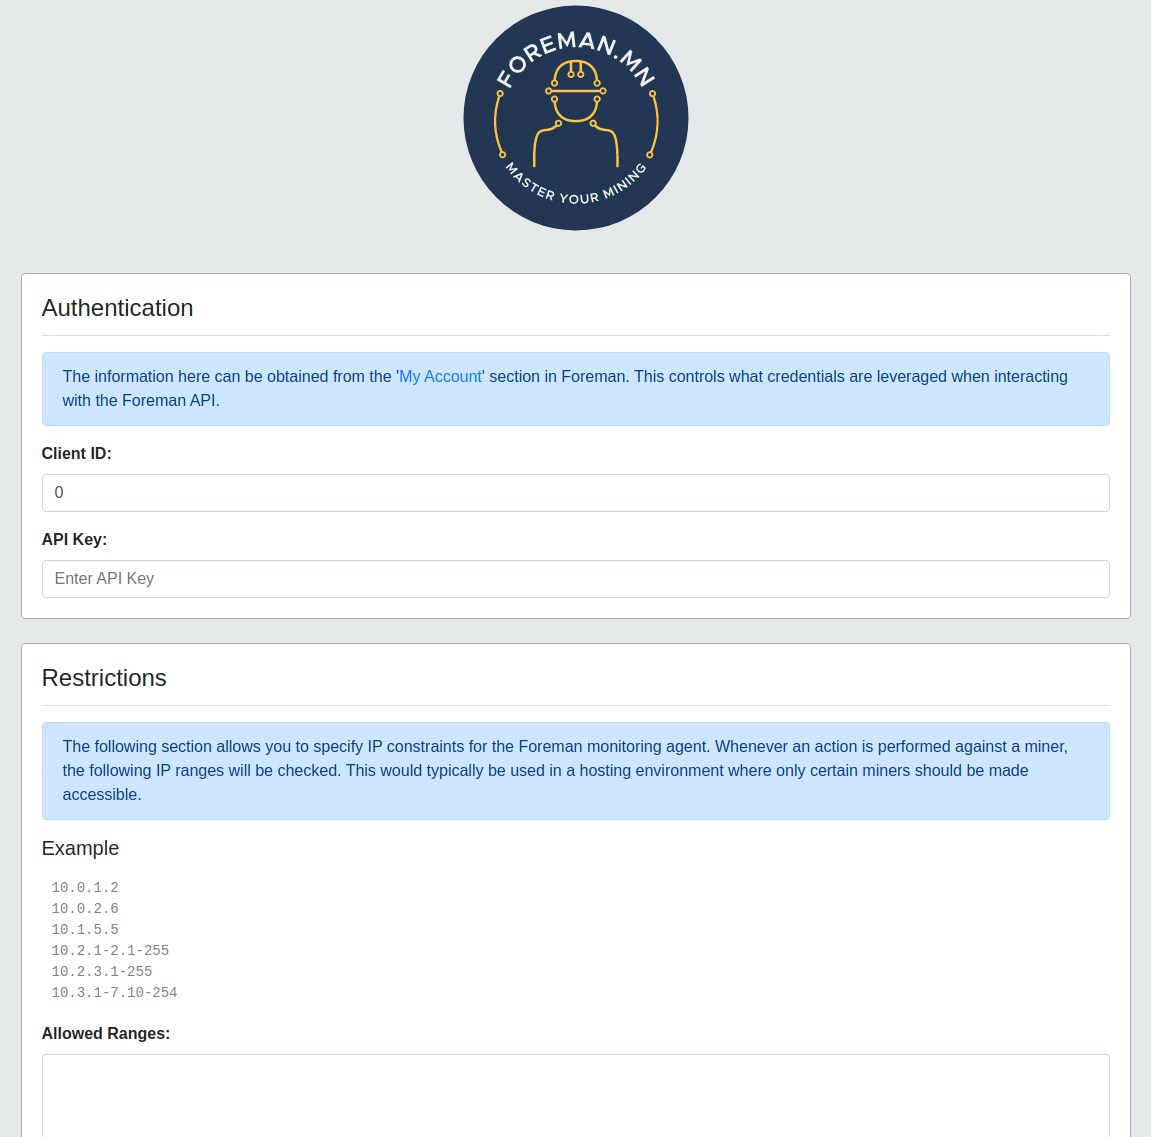
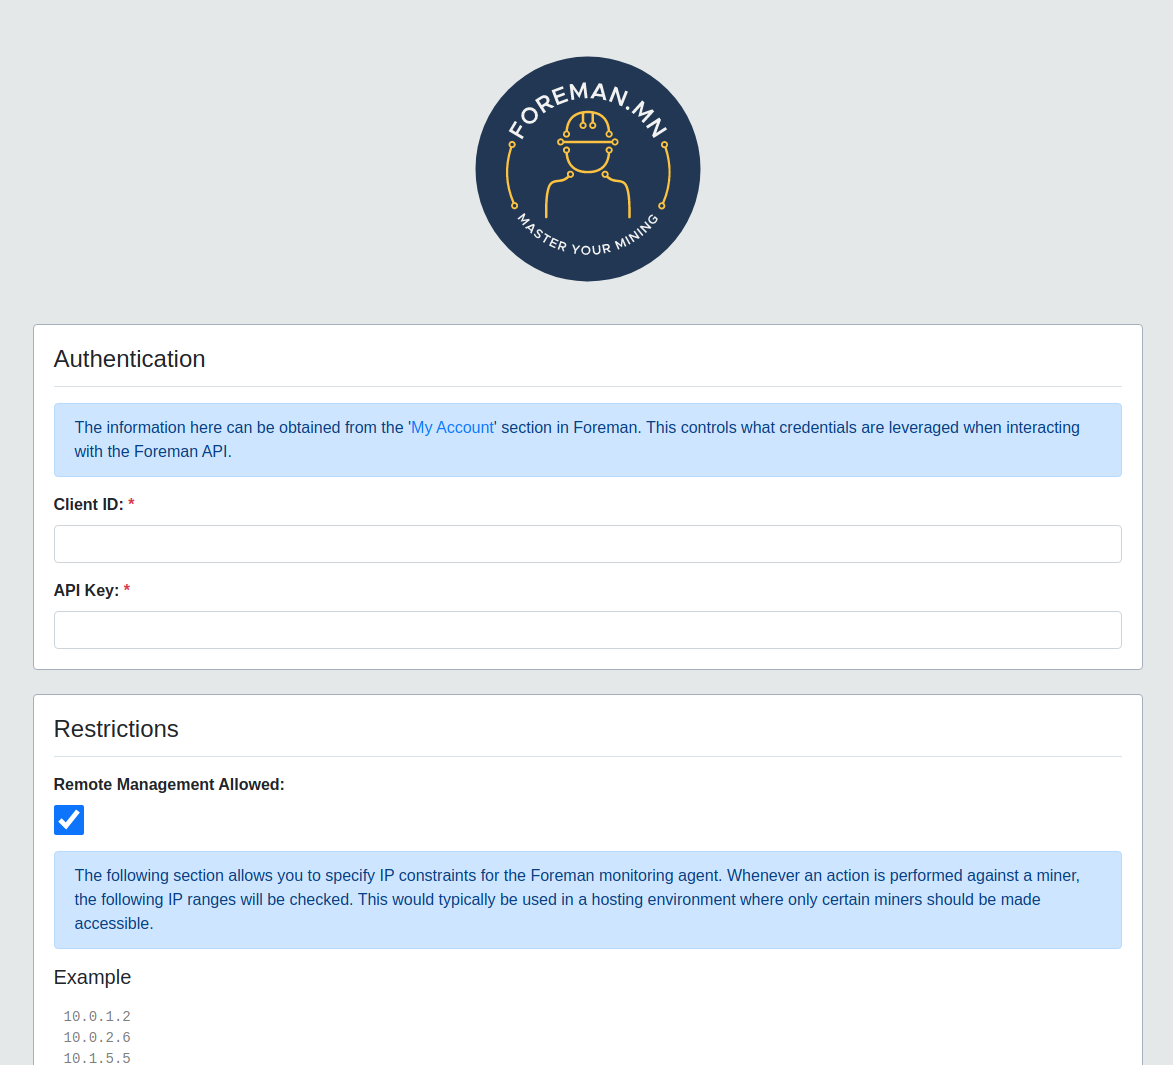
Adding validation of client ID and api key. Adding control flag

diff --git a/src/main/resources/templates/index.html b/src/main/resources/templates/index.html
@@ -15,6 +15,11 @@
          height="250px">
 </div>
 <div class="section">
+    <div class="alert alert-success" role="alert" th:text="${success}"
+         th:if="${success}"></div>
+    <div class="alert alert-danger" role="alert" th:text="${error}"
+         th:if="${error}"></div>
+
     <form method="post" th:action="@{/}" th:object="${pickaxeConfig}">
         <div class="card mt-4">
             <h4>Authentication</h4>
@@ -25,20 +30,28 @@
                 credentials are leveraged when interacting with the Foreman API.
             </div>
             <div class="form-group">
-                <label for="clientId">Client ID:</label>
-                <input id="clientId" placeholder="Enter Client ID" required
-                       type="number" th:field="*{clientId}"
+                <label for="clientId">Client ID: <span
+                        class="text-danger">*</span></label>
+                <input id="clientId" required type="number"
+                       th:field="*{clientId}"
                        class="form-control"/>
             </div>
             <div class="form-group">
-                <label for="apiKey">API Key:</label>
-                <input id="apiKey" placeholder="Enter API Key" required
-                       type="text" th:field="*{apiKey}"
+                <label for="apiKey">API Key: <span class="text-danger">*</span></label>
+                <input id="apiKey" required type="text" th:field="*{apiKey}"
                        class="form-control"/>
             </div>
         </div>
         <div class="card mt-4">
             <h4>Restrictions</h4>
+            <div class="form-group">
+                <label for="control">Remote Management Allowed:</label>
+                <div>
+                    <input id="control" type="checkbox" th:field="*{control}"
+                           class="form-control fm-check"/>
+                </div>
+            </div>
+
             <div class="alert alert-primary">
                 The following section allows you to
                 specify IP constraints for the Foreman monitoring agent.

diff --git a/src/main/resources/static/css/main.css b/src/main/resources/static/css/main.css
@@ -54,3 +54,19 @@ body .btn.save {
     width: 120px;
     margin-top: 35px;
 }
+
+body .fm-check {
+    float: left;
+    width: 30px;
+    height: 30px;
+}
+
+body .alert-success {
+    border-color: #46c35f;
+    background-color: #edf9ee;
+}
+
+body .alert-danger {
+    border-color: #fa424a;
+    background-color: #feecec;
+}

diff --git a/src/main/java/mn/foreman/guardrail/controller/IndexController.java b/src/main/java/mn/foreman/guardrail/controller/IndexController.java
@@ -1,8 +1,12 @@
 package mn.foreman.guardrail.controller;
 
+import mn.foreman.api.ForemanApi;
+import mn.foreman.api.ForemanApiImpl;
+import mn.foreman.api.JdkWebUtil;
 import mn.foreman.guardrail.config.Repository;
 import mn.foreman.guardrail.model.PickaxeConfig;
 
+import com.fasterxml.jackson.databind.ObjectMapper;
 import org.springframework.beans.factory.annotation.Autowired;
 import org.springframework.stereotype.Controller;
 import org.springframework.ui.Model;
@@ -10,8 +14,10 @@ import org.springframework.web.bind.annotation.GetMapping;
 import org.springframework.web.bind.annotation.ModelAttribute;
 import org.springframework.web.bind.annotation.PostMapping;
 import org.springframework.web.bind.annotation.RequestMapping;
+import org.springframework.web.servlet.mvc.support.RedirectAttributes;
 
 import java.io.IOException;
+import java.util.concurrent.TimeUnit;
 
 /** Contains all of the code necessary to server the basic, single-page UI. */
 @Controller
@@ -49,16 +55,44 @@ public class IndexController {
     /**
      * Performs an update.
      *
-     * @param pickaxeConfig The config.
+     * @param pickaxeConfig      The config.
+     * @param redirectAttributes The redirect attributes.
      *
      * @return The view.
      *
      * @throws IOException on failure.
      */
     @PostMapping
-    public String update(@ModelAttribute final PickaxeConfig pickaxeConfig)
+    public String update(
+            @ModelAttribute final PickaxeConfig pickaxeConfig,
+            final RedirectAttributes redirectAttributes)
             throws IOException {
-        this.repository.updateConfig(pickaxeConfig);
+        final ForemanApi foremanApi =
+                new ForemanApiImpl(
+                        Integer.toString(pickaxeConfig.clientId),
+                        "",
+                        new ObjectMapper(),
+                        new JdkWebUtil(
+                                "https://api.foreman.mn/",
+                                pickaxeConfig.apiKey,
+                                5,
+                                TimeUnit.SECONDS));
+        if (foremanApi.ping().pingClient()) {
+            try {
+                this.repository.updateConfig(pickaxeConfig);
+                redirectAttributes.addFlashAttribute(
+                        "success",
+                        "Saved!");
+            } catch (final Exception e) {
+                redirectAttributes.addFlashAttribute(
+                        "error",
+                        "Invalid form data");
+            }
+        } else {
+            redirectAttributes.addFlashAttribute(
+                    "error",
+                    "Failed to validate those credentials against the Foreman API");
+        }
         return "redirect:/";
     }
 }

diff --git a/src/main/java/mn/foreman/guardrail/controller/ApiController.java b/src/main/java/mn/foreman/guardrail/controller/ApiController.java
@@ -52,6 +52,7 @@ public class ApiController {
                 .clientId(pickaxeConfig.clientId)
                 .apiKey(pickaxeConfig.getApiKey())
                 .ranges(ranges)
+                .control(pickaxeConfig.control)
                 .build();
     }
 
@@ -64,7 +65,10 @@ public class ApiController {
         public String apiKey;
 
         /** The client ID. */
-        public long clientId;
+        public Integer clientId;
+
+        /** The control. */
+        public Boolean control;
 
         /** The ranges. */
         public List<String> ranges;

diff --git a/src/main/java/mn/foreman/guardrail/model/PickaxeConfig.java b/src/main/java/mn/foreman/guardrail/model/PickaxeConfig.java
@@ -10,8 +10,11 @@ public class PickaxeConfig {
     public String apiKey;
 
     /** The client ID. */
-    public long clientId;
+    public Integer clientId;
+
+    /** Whether or not control is allowed. */
+    public Boolean control = true;
 
     /** The IP ranges. */
-    public String ipRanges;
+    public String ipRanges = "0-255.0-255.0-255.0-255";
 }
